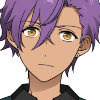
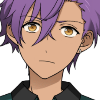
update

diff --git a/css/esexp.css b/css/esexp.css
@@ -1550,7 +1550,7 @@
   --icon:url("https://cdn.jsdelivr.net/gh/310mc/css@latest/img/subaru_horrified.png");
 }
 [character="Subaru"][idle] {
-  --icon:url("https://cdn.jsdelivr.net/gh/310mc/css@latest/img/subaru_idle.png");
+  --icon:url("https://cdn.jsdelivr.net/gh/310mc/css@latest/img/subaru_serious.png");
 }
 [character="Subaru"][niya] {
   --icon:url("https://cdn.jsdelivr.net/gh/310mc/css@latest/img/subaru_niya.png");
@@ -1571,7 +1571,7 @@
   --icon:url("https://cdn.jsdelivr.net/gh/310mc/css@latest/img/subaru_norsmile2.png");
 }
 [character="Subaru"][norsmile3] {
-  --icon:url("https://cdn.jsdelivr.net/gh/310mc/css@latest/img/subaru_norsmile3.png");
+  --icon:url("https://cdn.jsdelivr.net/gh/310mc/css@latest/img/subaru_norsmile.png");
 }
 [character="Subaru"][northinking] {
   --icon:url("https://cdn.jsdelivr.net/gh/310mc/css@latest/img/subaru_northinking.png");
@@ -1998,7 +1998,7 @@
   --icon:url("https://cdn.jsdelivr.net/gh/310mc/css@latest/img/eichi_horrified.png");
 }
 [character="Eichi"][idle] {
-  --icon:url("https://cdn.jsdelivr.net/gh/310mc/css@latest/img/eichi_idle.png");
+  --icon:url("https://cdn.jsdelivr.net/gh/310mc/css@latest/img/eichi_serious.png");
 }
 [character="Eichi"][niya] {
   --icon:url("https://cdn.jsdelivr.net/gh/310mc/css@latest/img/eichi_niya.png");
@@ -2277,7 +2277,7 @@
   --icon:url("https://cdn.jsdelivr.net/gh/310mc/css@latest/img/adonis_horrified.png");
 }
 [character="Adonis"][idle] {
-  --icon:url("https://cdn.jsdelivr.net/gh/310mc/css@latest/img/adonis_idle.png");
+  --icon:url("https://cdn.jsdelivr.net/gh/310mc/css@latest/img/adonis_serious.png");
 }
 [character="Adonis"][niya] {
   --icon:url("https://cdn.jsdelivr.net/gh/310mc/css@latest/img/adonis_niya.png");
@@ -2291,11 +2291,14 @@
 [character="Adonis"][nod2] {
   --icon:url("https://cdn.jsdelivr.net/gh/310mc/css@latest/img/adonis_nod2.png");
 }
+[character="Adonis"][norsmile0] {
+  --icon:url("https://cdn.jsdelivr.net/gh/310mc/css@latest/img/adonis_norsmile0.png");
+}
 [character="Adonis"][norsmile] {
   --icon:url("https://cdn.jsdelivr.net/gh/310mc/css@latest/img/adonis_norsmile.png");
 }
 [character="Adonis"][norsmile2] {
-  --icon:url("https://cdn.jsdelivr.net/gh/310mc/css@latest/img/adonis_norsmile2.png");
+  --icon:url("https://cdn.jsdelivr.net/gh/310mc/css@latest/img/adonis_norsmile.png");
 }
 [character="Adonis"][norsmile3] {
   --icon:url("https://cdn.jsdelivr.net/gh/310mc/css@latest/img/adonis_norsmile3.png");
@@ -4802,7 +4805,7 @@
   --icon:url("https://cdn.jsdelivr.net/gh/310mc/css@latest/img/tomoya_frown.png");
 }
 [character="Tomoya"][frown2] {
-  --icon:url("https://cdn.jsdelivr.net/gh/310mc/css@latest/img/tomoya_frown2.png");
+  --icon:url("https://cdn.jsdelivr.net/gh/310mc/css@latest/img/tomoya_frown.png");
 }
 [character="Tomoya"][frownshake] {
   --icon:url("https://cdn.jsdelivr.net/gh/310mc/css@latest/img/tomoya_frownshake.png");
@@ -4829,7 +4832,7 @@
   --icon:url("https://cdn.jsdelivr.net/gh/310mc/css@latest/img/tomoya_horrified.png");
 }
 [character="Tomoya"][idle] {
-  --icon:url("https://cdn.jsdelivr.net/gh/310mc/css@latest/img/tomoya_idle.png");
+  --icon:url("https://cdn.jsdelivr.net/gh/310mc/css@latest/img/tomoya_serious.png");
 }
 [character="Tomoya"][niya] {
   --icon:url("https://cdn.jsdelivr.net/gh/310mc/css@latest/img/tomoya_niya.png");
@@ -5010,7 +5013,7 @@
   --icon:url("https://cdn.jsdelivr.net/gh/310mc/css@latest/img/hajime_frown.png");
 }
 [character="Hajime"][frown2] {
-  --icon:url("https://cdn.jsdelivr.net/gh/310mc/css@latest/img/hajime_frown2.png");
+  --icon:url("https://cdn.jsdelivr.net/gh/310mc/css@latest/img/hajime_frown.png");
 }
 [character="Hajime"][frownshake] {
   --icon:url("https://cdn.jsdelivr.net/gh/310mc/css@latest/img/hajime_frownshake.png");
@@ -5040,7 +5043,7 @@
   --icon:url("https://cdn.jsdelivr.net/gh/310mc/css@latest/img/hajime_horrified.png");
 }
 [character="Hajime"][idle] {
-  --icon:url("https://cdn.jsdelivr.net/gh/310mc/css@latest/img/hajime_idle.png");
+  --icon:url("https://cdn.jsdelivr.net/gh/310mc/css@latest/img/hajime_serious.png");
 }
 [character="Hajime"][niya] {
   --icon:url("https://cdn.jsdelivr.net/gh/310mc/css@latest/img/hajime_niya.png");
